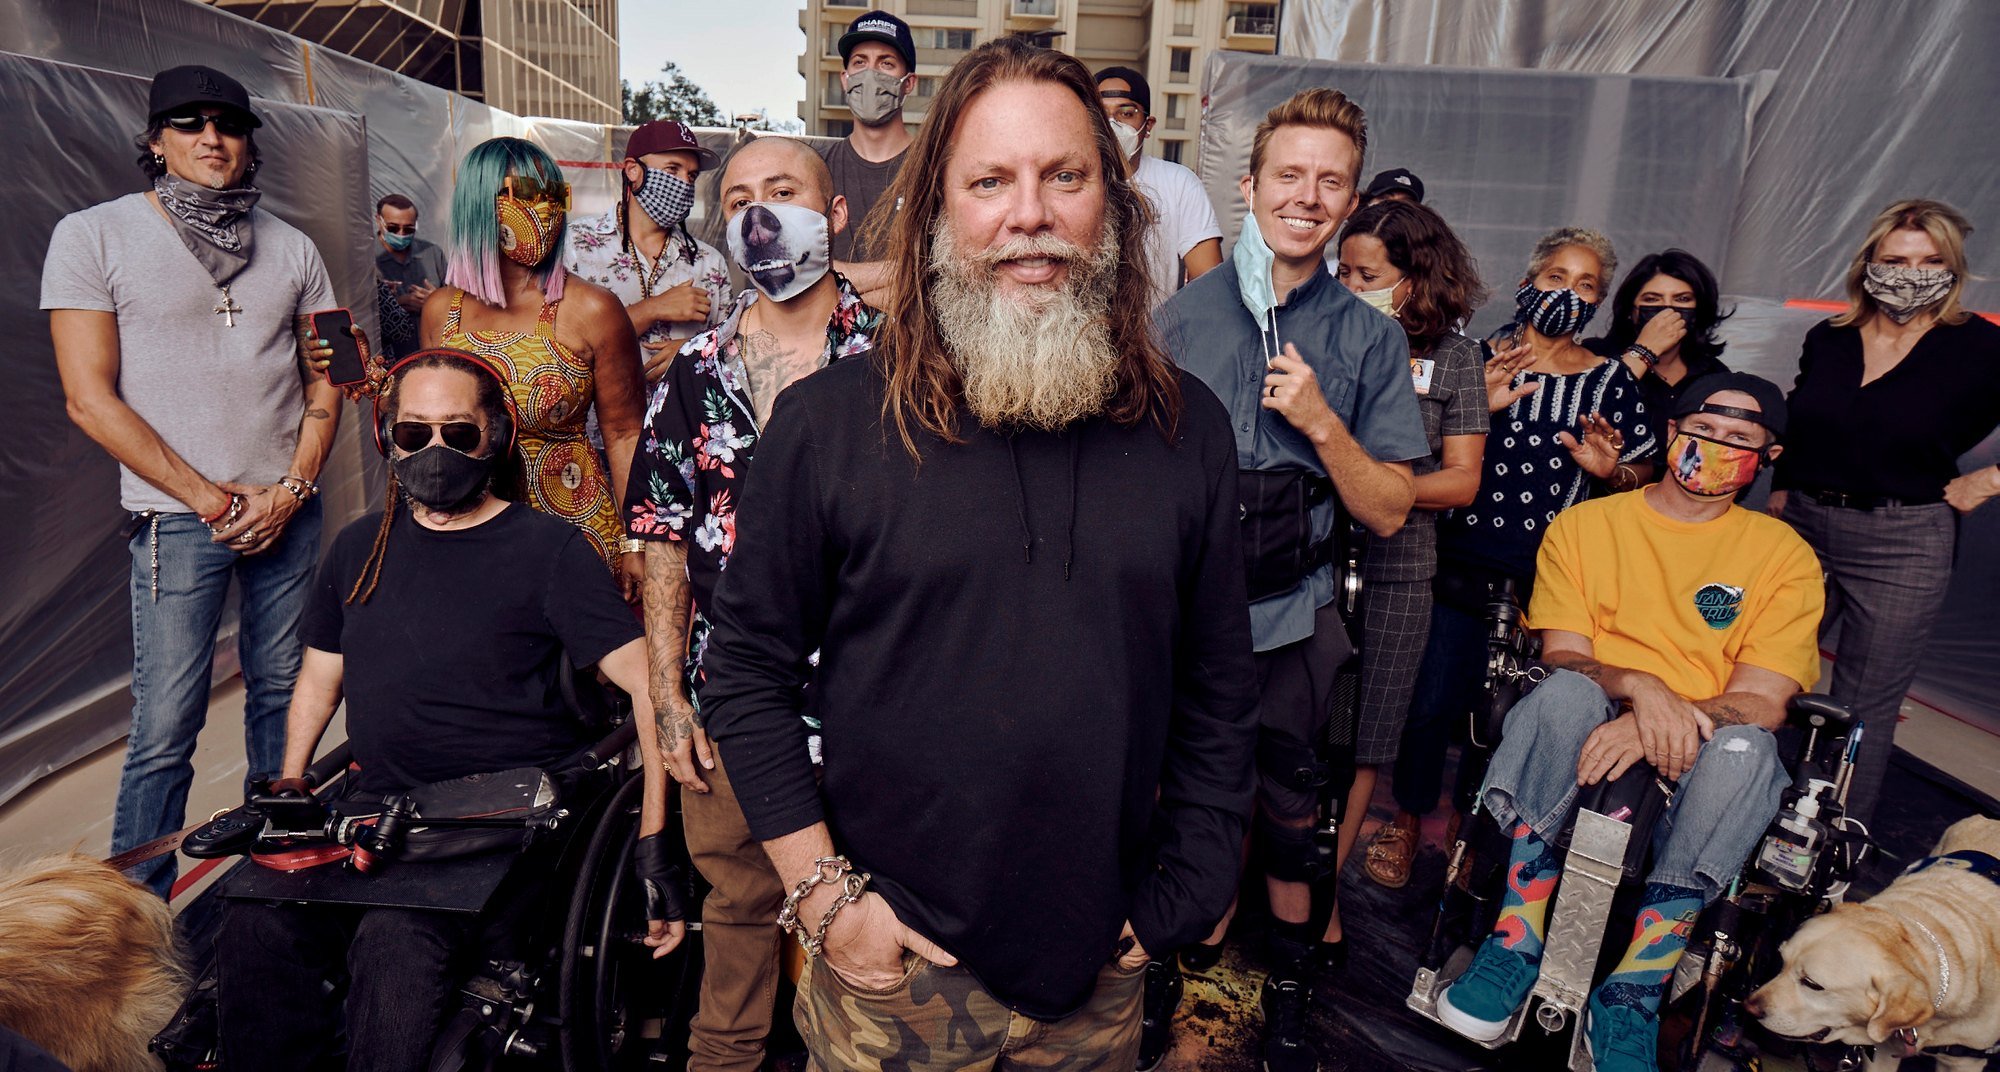
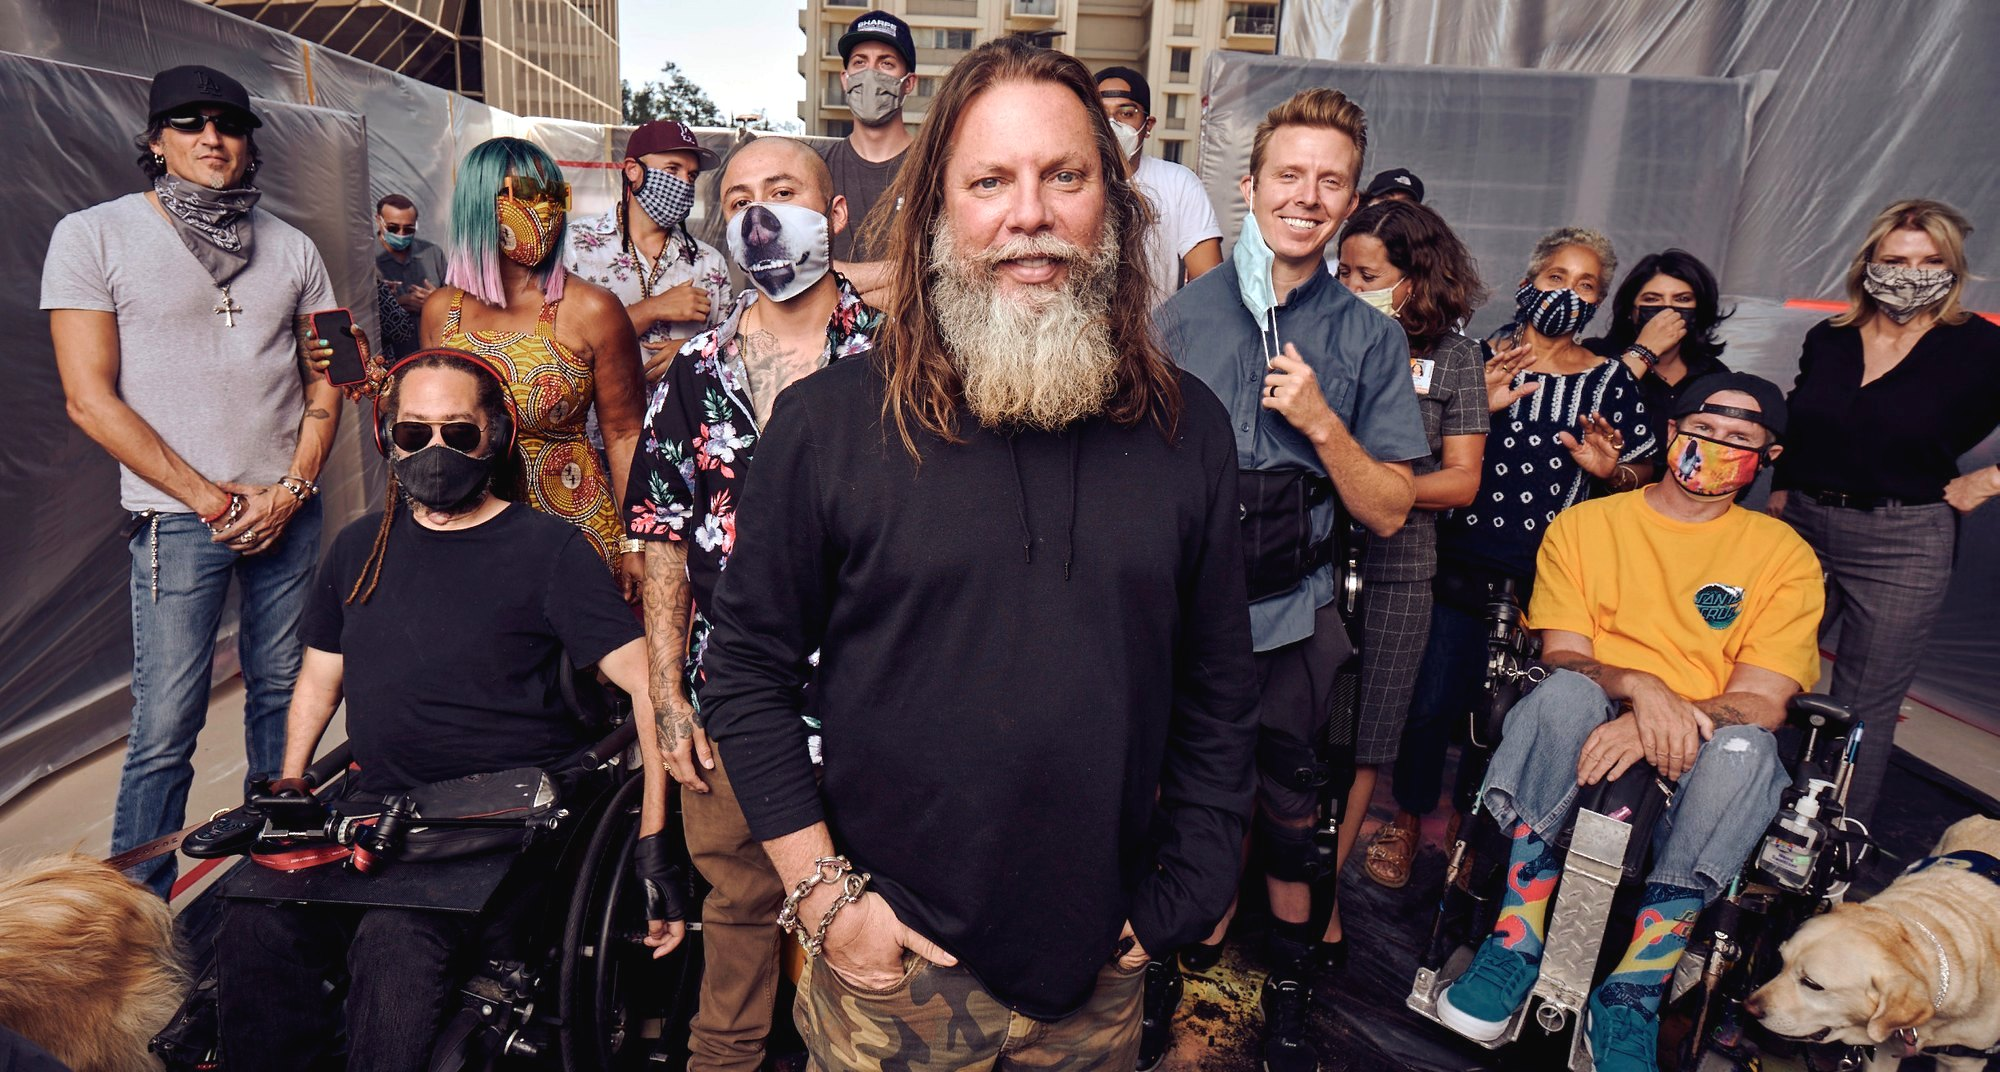
Risky: simulator photos tune
Claude-Session: https://claude.ai/code/session_012U18n2jx8i57thyH5Nwtnb

Changed region(s): [[0.31, 0.0, 0.403, 0.1231], [0.837, 0.6157, 0.868, 0.6465]]

diff --git a/features/risky/index.html b/features/risky/index.html
@@ -383,8 +383,8 @@ footer p span{color:#505050}
     </div>
 
     <div class="wrap wide g g2" style="grid-template-columns:minmax(0,1.4993fr) minmax(0,1.0733fr)">
-      <figure><span class="crop"><img loading="lazy" src="/features/risky/img/sim.jpg" alt="Kelly Graval with the driving simulator he painted" style="aspect-ratio:2000/1334;object-position:50% 50%"></span></figure>
-      <figure><span class="crop"><img loading="lazy" src="/features/risky/img/trio.jpg" alt="Laura Sharpe, a participant and Kelly Graval with the painted simulator" style="aspect-ratio:1801/1678;object-position:50% 50%"></span></figure>
+      <figure><span class="crop"><img loading="lazy" src="/features/risky/img/sim.jpg" alt="Kelly Graval with the driving simulator he painted" style="aspect-ratio:2000/1334;object-position:79.5% 60%;transform-origin:79.5% 60%;transform:scale(1.23)"></span></figure>
+      <figure><span class="crop"><img loading="lazy" src="/features/risky/img/trio.jpg" alt="Laura Sharpe, a participant and Kelly Graval with the painted simulator" style="aspect-ratio:1801/1678;object-position:9.5% 11%;transform-origin:9.5% 11%;transform:scale(1.06)"></span></figure>
     </div>
 
     <div class="wrap wide g g1">

diff --git a/_build/feature-template/risky-source.html b/_build/feature-template/risky-source.html
@@ -376,8 +376,8 @@ footer p span{color:#505050}
     </div>
 
     <div class="wrap wide g g2" style="grid-template-columns:minmax(0,1.4993fr) minmax(0,1.0733fr)">
-      <figure><span class="crop"><img src="{{sim}}" alt="Kelly Graval with the driving simulator he painted" style="aspect-ratio:2000/1334;object-position:50% 50%"></span></figure>
-      <figure><span class="crop"><img src="{{trio}}" alt="Laura Sharpe, a participant and Kelly Graval with the painted simulator" style="aspect-ratio:1801/1678;object-position:50% 50%"></span></figure>
+      <figure><span class="crop"><img src="{{sim}}" alt="Kelly Graval with the driving simulator he painted" style="aspect-ratio:2000/1334;object-position:79.5% 60%;transform-origin:79.5% 60%;transform:scale(1.23)"></span></figure>
+      <figure><span class="crop"><img src="{{trio}}" alt="Laura Sharpe, a participant and Kelly Graval with the painted simulator" style="aspect-ratio:1801/1678;object-position:9.5% 11%;transform-origin:9.5% 11%;transform:scale(1.06)"></span></figure>
     </div>
 
     <div class="wrap wide g g1">
